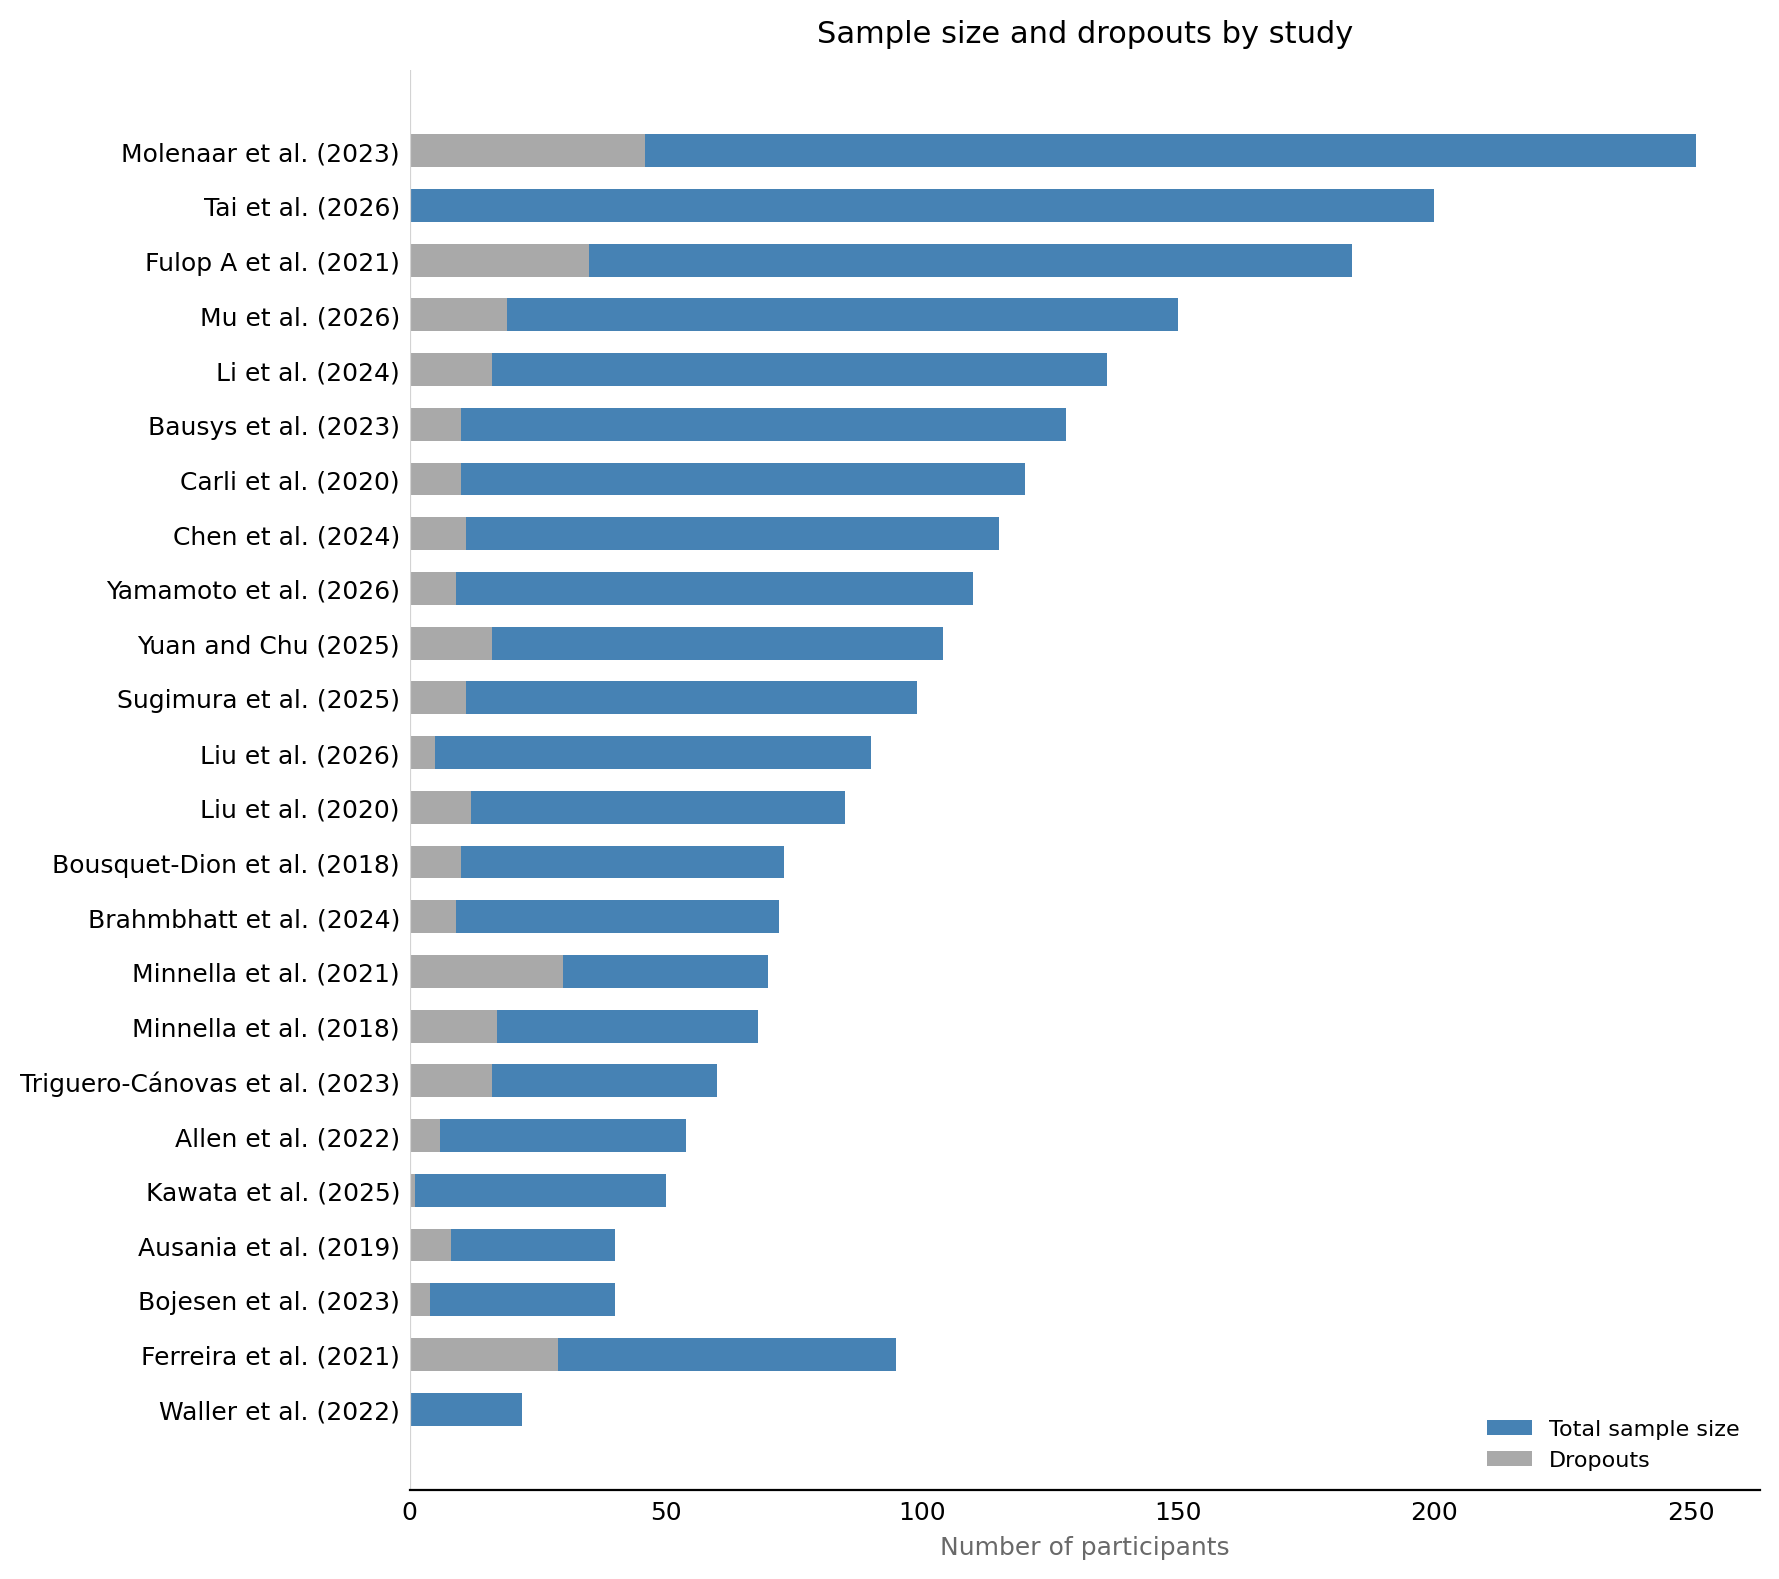
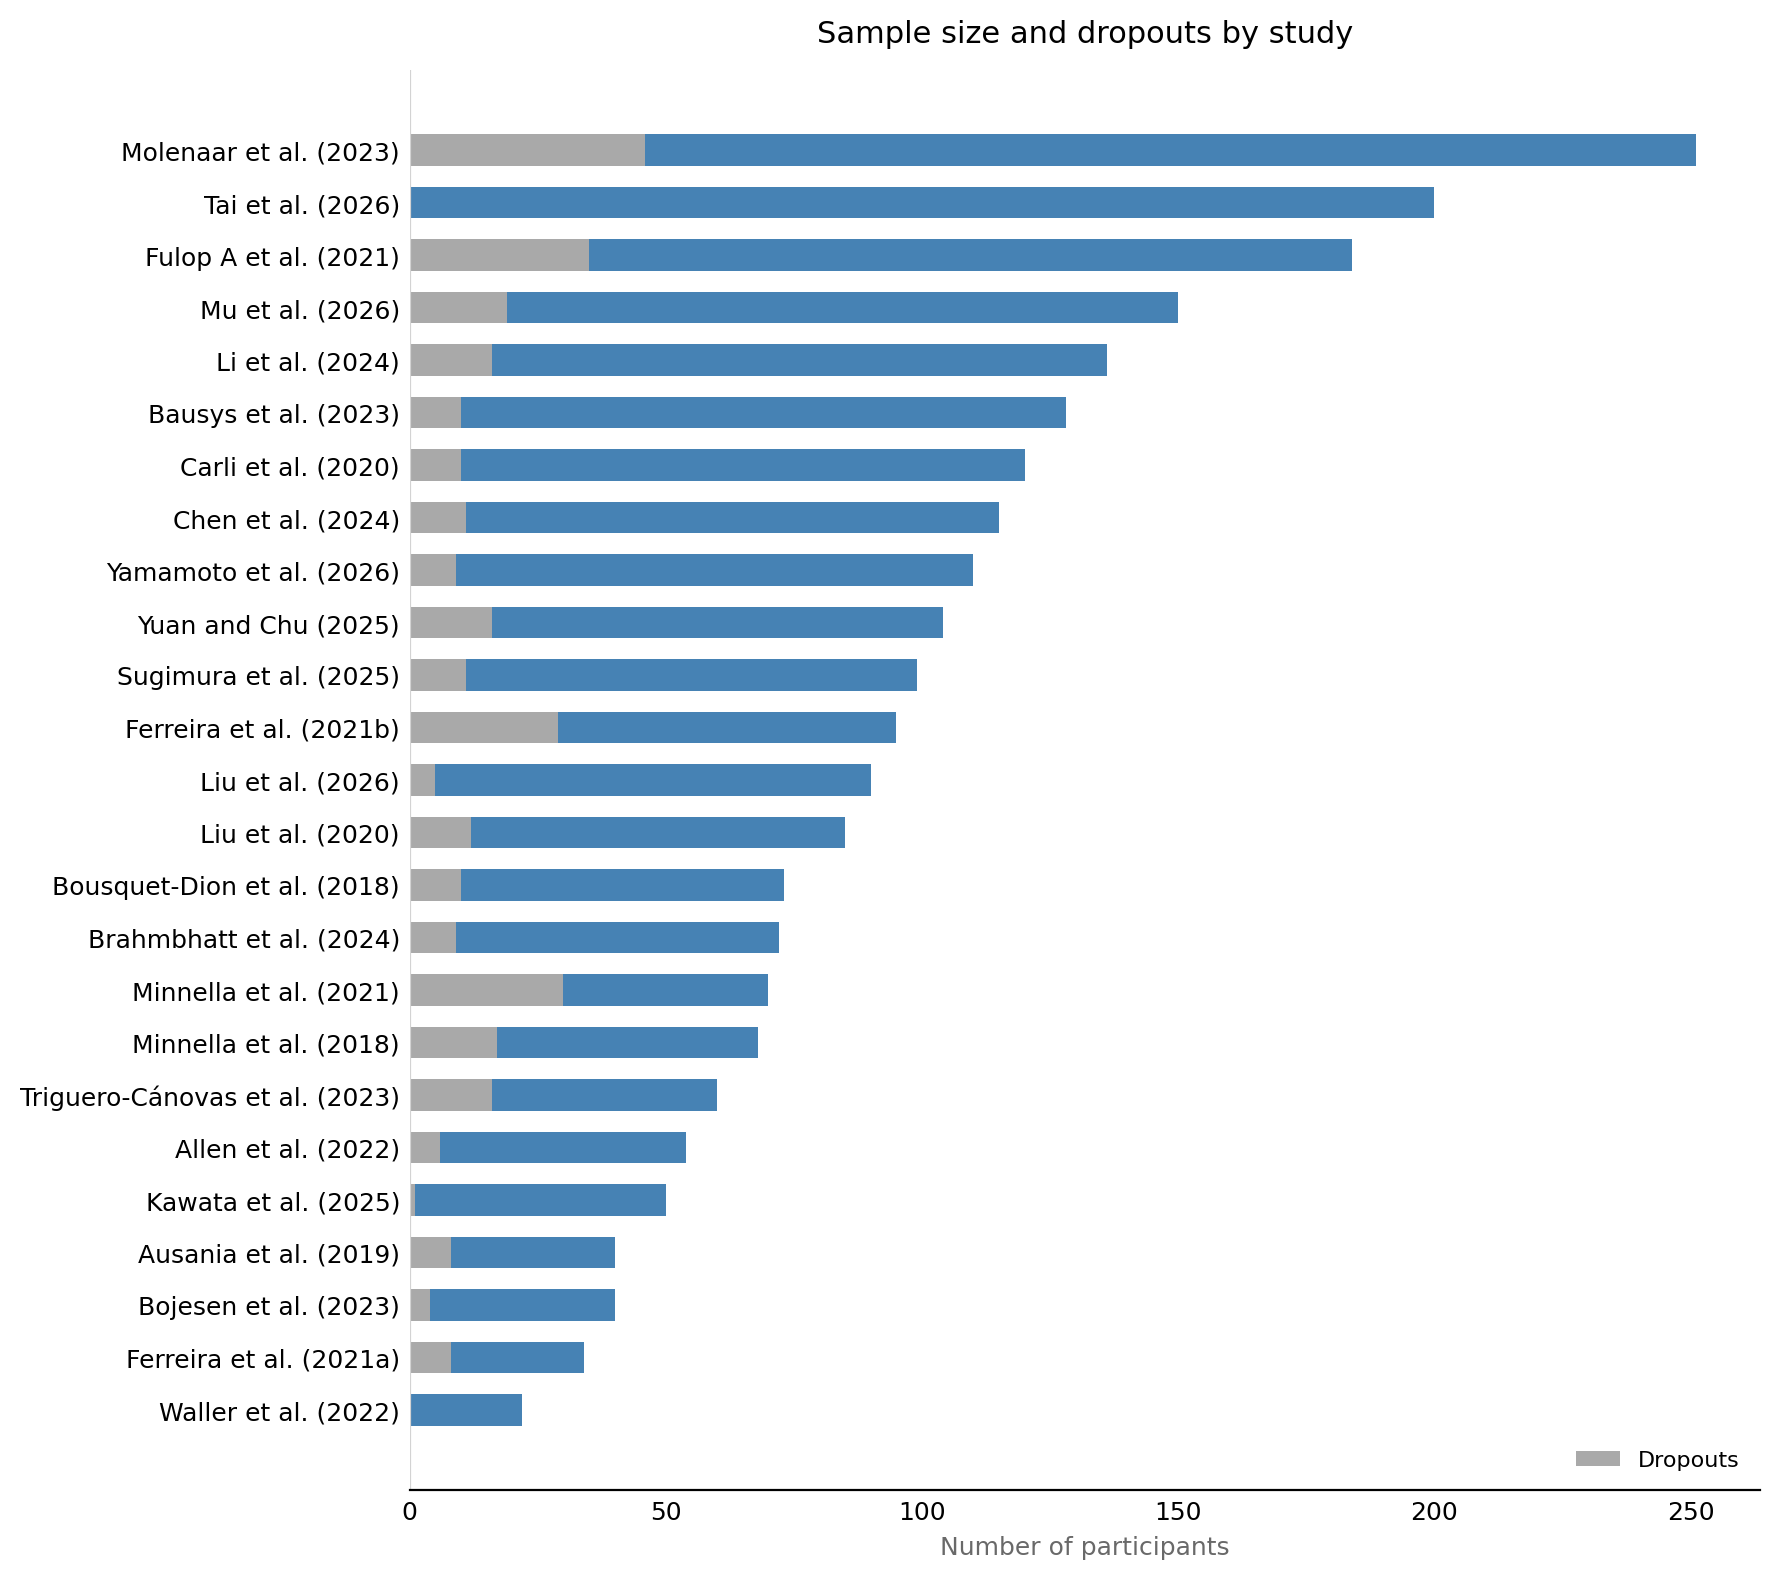
update year on evidence table for both studies of ferreira et al.

Changed region(s): [[0.0, 0.1241, 0.7729, 0.8999], [0.8347, 0.8999, 0.9893, 0.931], [0.0927, 0.0931, 0.1237, 0.1241]]

diff --git a/scripts/visualisations.py b/scripts/visualisations.py
@@ -224,7 +224,7 @@ def plot_outcome_effects(df, ax=None):
 
 def plot_sample_size_dropouts(df, ax=None):
     plot_df = df[["Author", "Year", "n_enrolled", "n_dropouts"]].copy()
-    plot_df["Study"] = plot_df["Author"] + " (" + plot_df["Year"].astype(int).astype(str) + ")"
+    plot_df["Study"] = plot_df["Author"] + " (" + plot_df["Year"].astype(str) + ")"
     plot_df = plot_df.sort_values("n_enrolled", ascending=True)
 
     own_fig = ax is None
@@ -235,8 +235,7 @@ def plot_sample_size_dropouts(df, ax=None):
         plot_df["Study"],
         plot_df["n_enrolled"],
         color="steelblue",
-        height=0.6,
-        label="Total sample size"
+        height=0.6
     )
 
     ax.barh(

diff --git a/scripts/clean_data.py b/scripts/clean_data.py
@@ -140,9 +140,6 @@ def clean_data(df):
     # Select only required columns 
     df = df[columns_to_keep].copy()
 
-    # Convert year to numeric
-    df["Year"]=pd.to_numeric(df["Year"], errors="coerce")
-
     # Apply consistent levels in interventions and outcome 
     for col in interventions:
         df[col]=df[col].map(normalise_intervention)